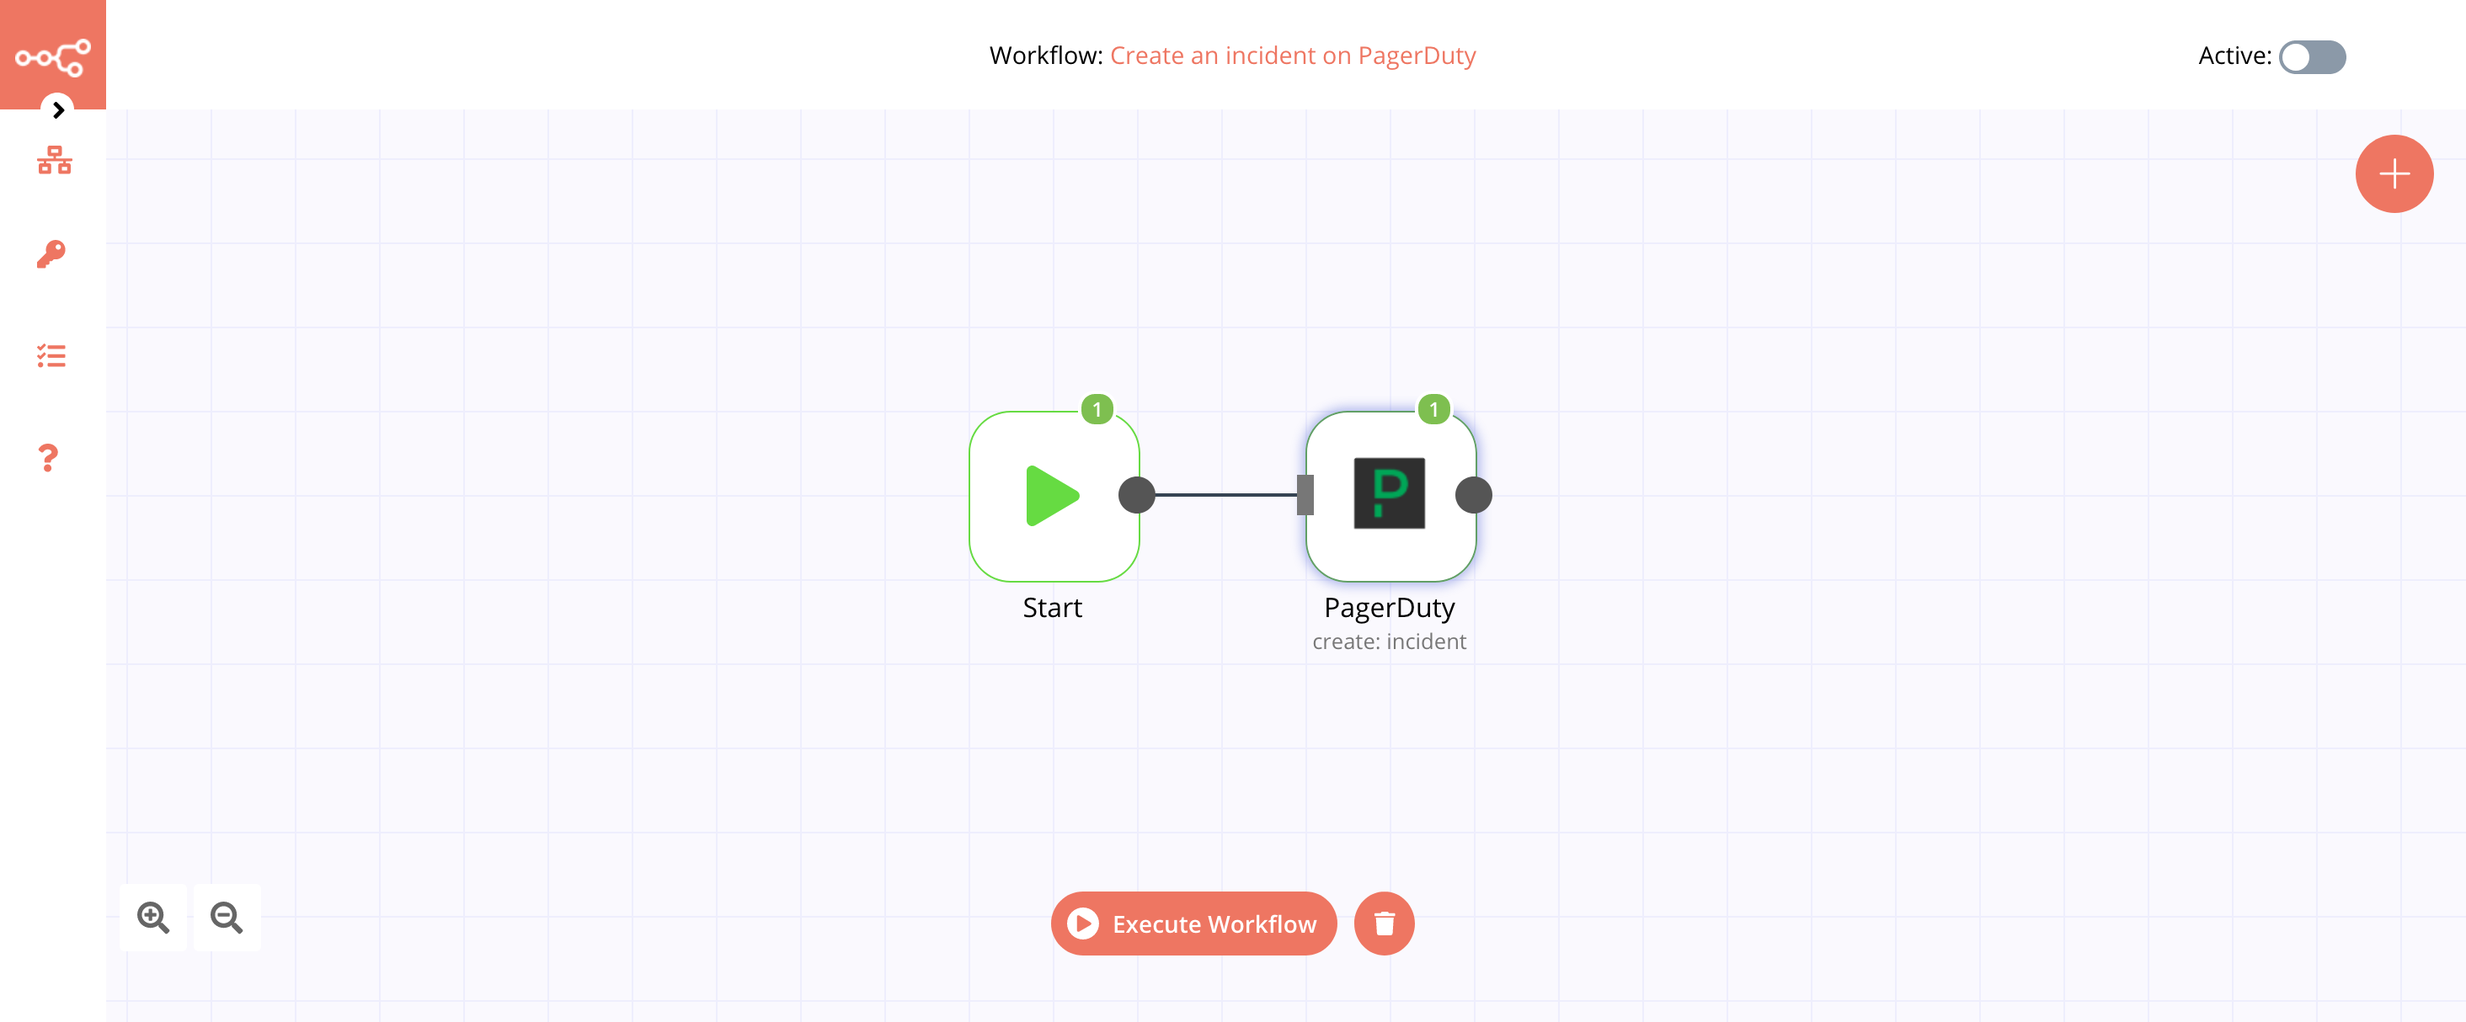
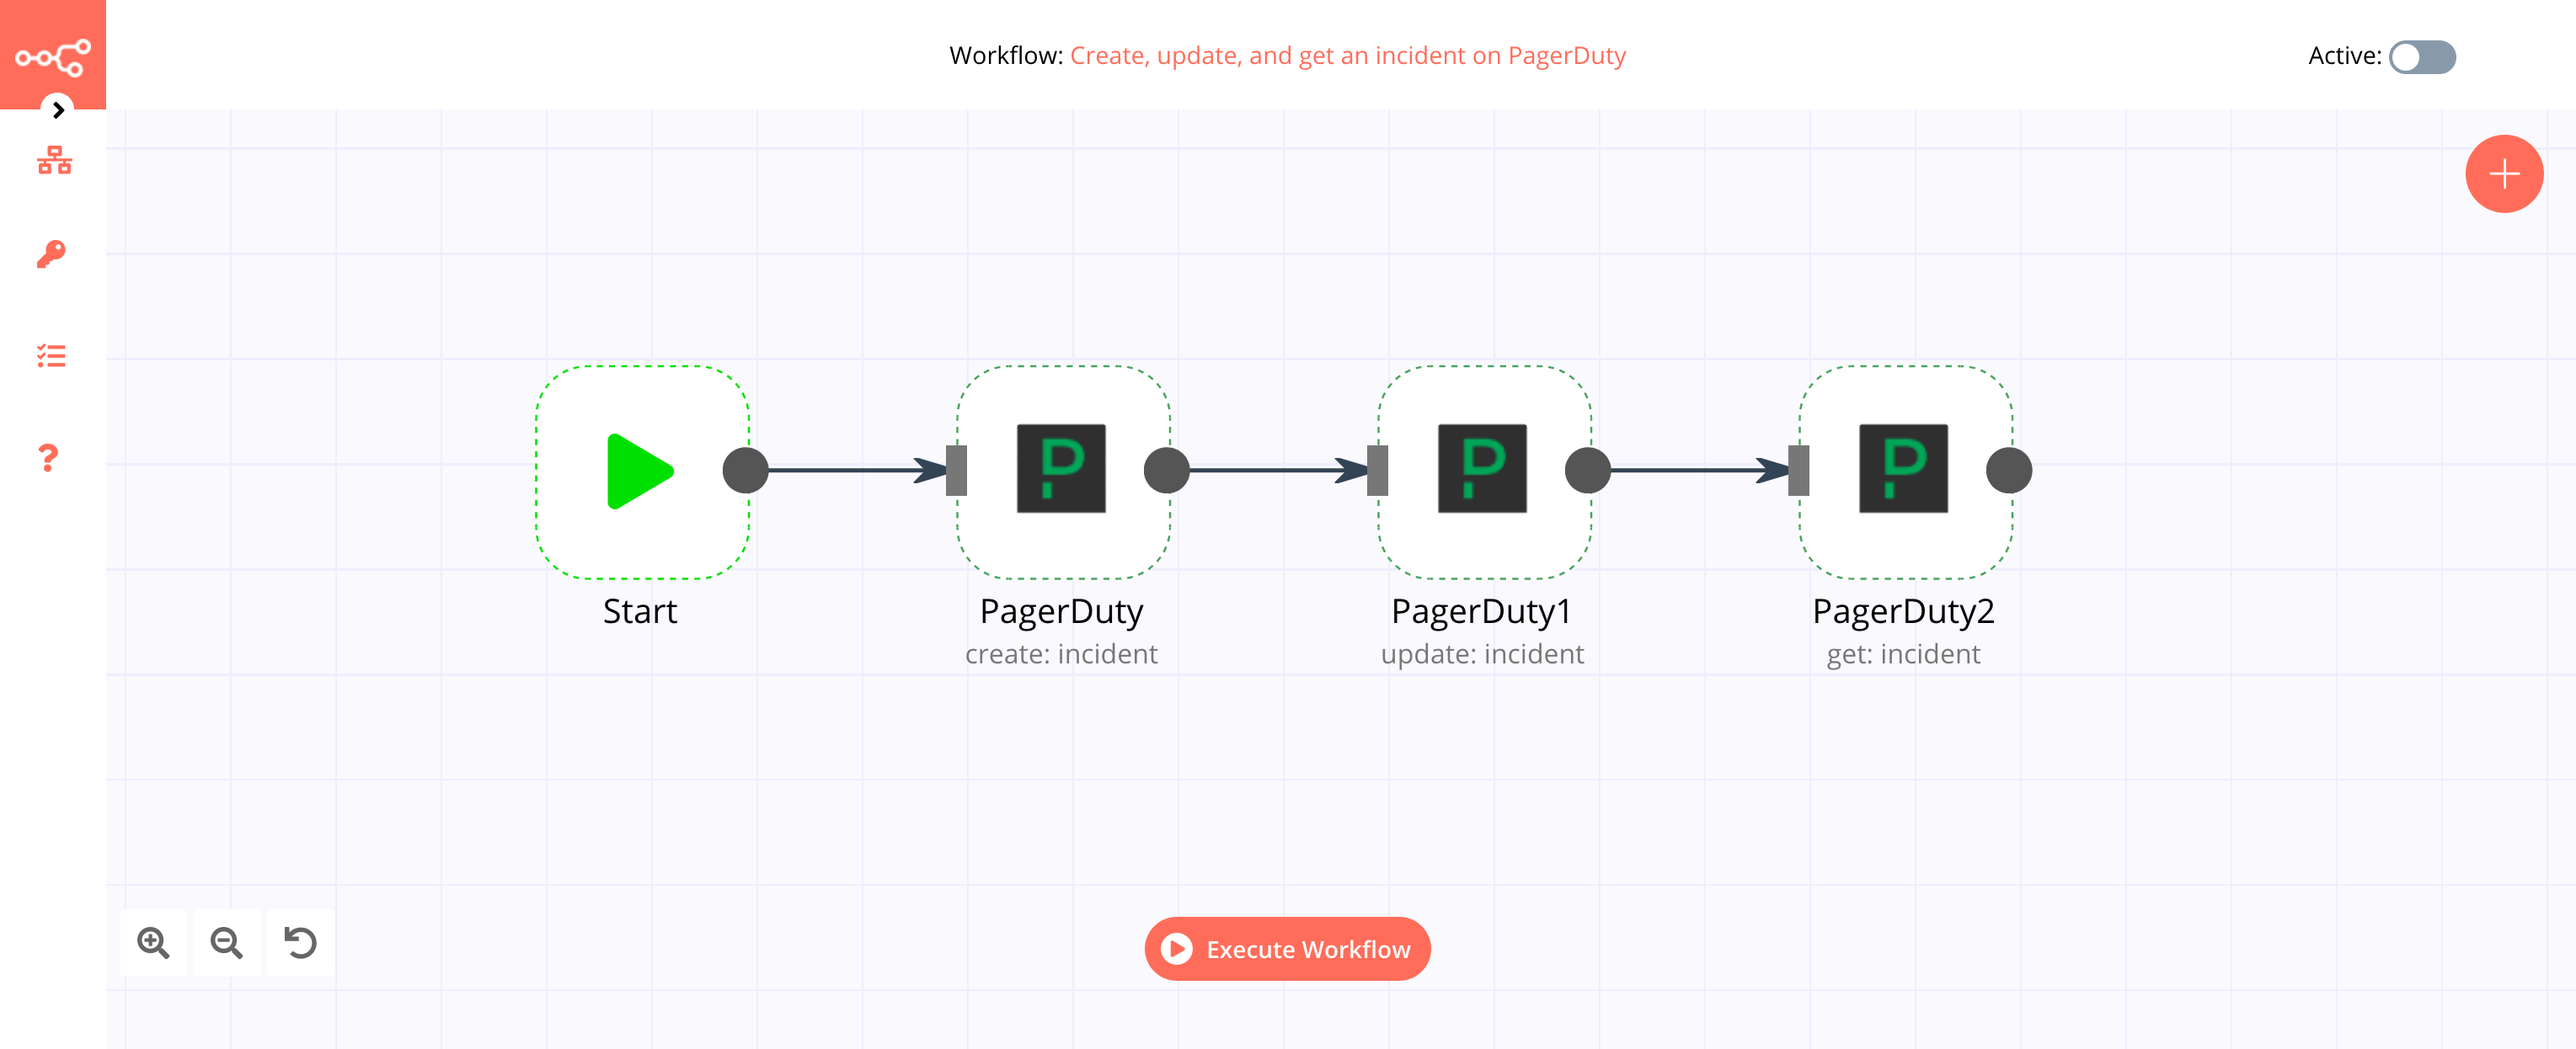
:sparkles: Extend PagerDuty node docs

diff --git a/docs/nodes/nodes-library/nodes/PagerDuty/README.md b/docs/nodes/nodes-library/nodes/PagerDuty/README.md
@@ -29,7 +29,7 @@ You can find authentication information for this node [here](../../../credential
 
 ## Example Usage
 
-This workflow allows you to create an incident on PagerDuty. You can also find the [workflow](https://n8n.io/workflows/411) on the website. This example usage workflow would use the following two nodes.
+This workflow allows you to create, update, and get an incident on PagerDuty. You can also find the [workflow](https://n8n.io/workflows/411) on the website. This example usage workflow would use the following two nodes.
 - [Start](../../core-nodes/Start/README.md)
 - [PagerDuty]()
 
@@ -41,13 +41,46 @@ The final workflow should look like the following image.
 
 The start node exists by default when you create a new workflow.
 
-### 2. PagerDuty node
+
+### 2. PagerDuty node (create: incident)
 
 1. First of all, you'll have to enter credentials for the PagerDuty node. You can find out how to do that [here](../../../credentials/PagerDuty/README.md).
 2. Enter the title of the incident in the *Title* field.
 3. Select the *Service ID* from the dropdown list.
 4. Enter your email in the *Email* field.
-5. Click on *Execute Node* to run the workflow.
+5. Click on *Execute Node* to run the node.
+
+![Using the PagerDuty node to create an incident](./PagerDuty_node.png)
+
+
+::: v-pre
+### 3. PagerDuty1 node (update: incident)
+
+1. Select the credentials that you entered in the previous node.
+2. Select 'Update' from the *Operation* dropdown list.
+3. Click on the gears icon next to the *Incident ID* field and click on *Add Expression*.
+4. Select the following in the *Variable Selector* section: Nodes > Output Data > JSON > id. You can also add the following expression: `{{$node["PagerDuty"].json["id"]}}`.
+5. Click on the gears icon next to the *Email* field and click on *Add Expression*.
+6. Select the following in the *Variable Selector* section: Nodes > Parameters > email. You can also add the following expression: `{{$node["PagerDuty"].parameter["email"]}}`.
+7. Click on the *Add Field* button and click on *Title*.
+8. Enter the name of the updated title in the *Title* field.
+9. Click on *Execute Node* to run the node.
+:::
+
+![Using the PagerDuty node to update an incident](./PagerDuty1_node.png)
+
+
+::: v-pre
+### 4. PagerDuty2 node (get: incident)
+
+1. Select the credentials that you entered in the previous node.
+2. Select 'Get' from the *Operation* dropdown list.
+3. Click on the gears icon next to the *Incident ID* field and click on *Add Expression*.
+4. Select the following in the *Variable Selector* section: Nodes > Output Data > JSON > id. You can also add the following expression: `{{$node["PagerDuty"].json["id"]}}`.
+5. Click on *Execute Node* to run the node.
+:::
+
+![Using the PagerDuty node to get an incident](./PagerDuty2_node.png)
 
 
 ## Further Reading
